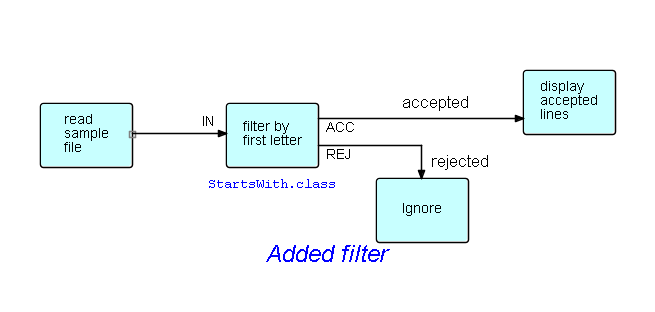
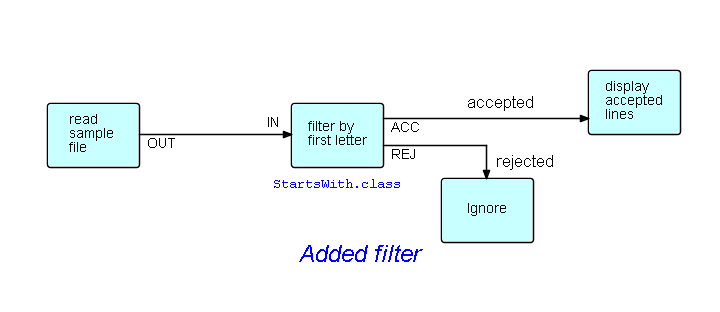
Redrew diagrams because of problem with first arrow

diff --git a/src/com/jpaulmorrison/fbp/ListComponents.java b/src/com/jpaulmorrison/fbp/ListComponents.java
@@ -1,0 +1,147 @@
+package com.jpaulmorrison.fbp;
+
+import java.io.File;
+import java.io.FileOutputStream;
+import java.io.IOException;
+import java.io.InputStream;
+import java.io.OutputStream;
+import java.net.MalformedURLException;
+import java.net.URL;
+import java.net.URLClassLoader;
+import java.util.Enumeration;
+import java.util.LinkedList;
+import java.util.zip.ZipEntry;
+import java.util.zip.ZipFile;
+
+public class ListComponents {
+
+	Enumeration<?> entries;
+	ZipFile zipFile;
+
+	// zip file must have "src", "test" and "diagrams" directories // and
+	// optionally components...
+
+	String zipName = "Documents\\GitHub\\javafbp\\build\\libs\\javafbp-4.1.0.jar";
+	//String shortName = zipName.substring(zipName.indexOf("build"));
+	String shortName = "C:\\Users\\Paul\\" + zipName;
+	//InputStream is = getClass().getClassLoader().getResourceAsStream(zipname);
+	
+	//File f = new File(zfn);
+	FileOutputStream f = null;
+	
+	//String s = f.getParent();
+	LinkedList<String> compList = new LinkedList<String>();
+
+	ListComponents(String str) throws MalformedURLException {
+		try {
+			f = new FileOutputStream(new File("C:\\Temp\\JavaFBP_Comps.txt"));}
+					catch (Exception e){} 
+		//if (f.exists())
+		//	f.delete();
+		if (str != null)
+			zipName = str;
+		//if (s != null)
+		//	(new File(s)).mkdirs();
+		//try {
+		//	copyInputStream(is, new FileOutputStream(f));
+		//} catch (IOException e) {
+		String zfn = System.getProperty("user.home") + File.separator + zipName;
+		 
+		URL[] urls = new URL[1];
+		urls[0] = (new File(shortName)).toURI().toURL();
+		URLClassLoader classLoader = null;
+		
+		//classLoader = new URLClassLoader(urls);
+		classLoader = new URLClassLoader(new URL[]{(new File(shortName)).toURI().toURL()}, ClassLoader.getSystemClassLoader());
+		
+		Class javaClass = null;
+		try {
+		javaClass = classLoader.loadClass("StartsWith");
+		
+		} catch (ClassNotFoundException e) {
+			System.out.println("Missing class name in " + zipName);
+			
+			// e.printStackTrace();
+			javaClass = null;
+		} catch (NoClassDefFoundError e) {
+			System.out.println("Missing internal class name in "
+					+ zipName);
+			
+			// e.printStackTrace();
+			javaClass = null;
+		} 
+
+
+		
+
+		try {
+
+			zipFile = new ZipFile(zfn);
+
+			entries = zipFile.entries();
+
+			while (entries.hasMoreElements()) {
+				ZipEntry entry = (ZipEntry) entries.nextElement();
+
+				if (entry.isDirectory()) { // Assume directories are stored
+											// parents first
+					// then children.
+					System.out.println(
+							"Extracting directory: " + entry.getName()); // This
+																			// is
+																			// not
+																			// robust,
+																			// just
+																			// for
+																			// demonstration
+																			// purposes.
+					//(new File(entry.getName())).mkdirs();
+				} else {
+					System.out.println("Extracting file: " + entry.getName());
+					//f = new File(entry.getName());
+					//if (f.exists())
+					//	f.delete();
+					//copyInputStream(zipFile.getInputStream(entry),
+					//		new FileOutputStream(f));
+					//copyInputStream(zipFile.getInputStream(entry),
+					//		f);
+				}
+				compList.add(entry.getName());
+			}
+
+			zipFile.close();
+		} catch (IOException ioe) {
+			System.err.println("Unhandled exception:");
+			ioe.printStackTrace();
+			return;
+		}
+	}
+
+	public static final void copyInputStream(InputStream in, OutputStream out)
+			throws IOException {
+		byte[] buffer = new byte[1024];
+		int len;
+
+		while ((len = in.read(buffer)) >= 0) {
+			// System.out.println(new String(buffer));
+			out.write(buffer, 0, len);
+		}
+		//out.flush();
+		in.close();
+		//out.close();
+	}
+
+	public static void main(String[] args) {
+
+	//	System.out.println(System.getProperty("simple.message") + args[0] + " from Simple.");
+
+		try {
+			new ListComponents(System.getProperty("simple.message"));
+		} catch (MalformedURLException e) {
+			// TODO Auto-generated catch block
+			e.printStackTrace();
+		}
+
+		return;
+	}
+}
